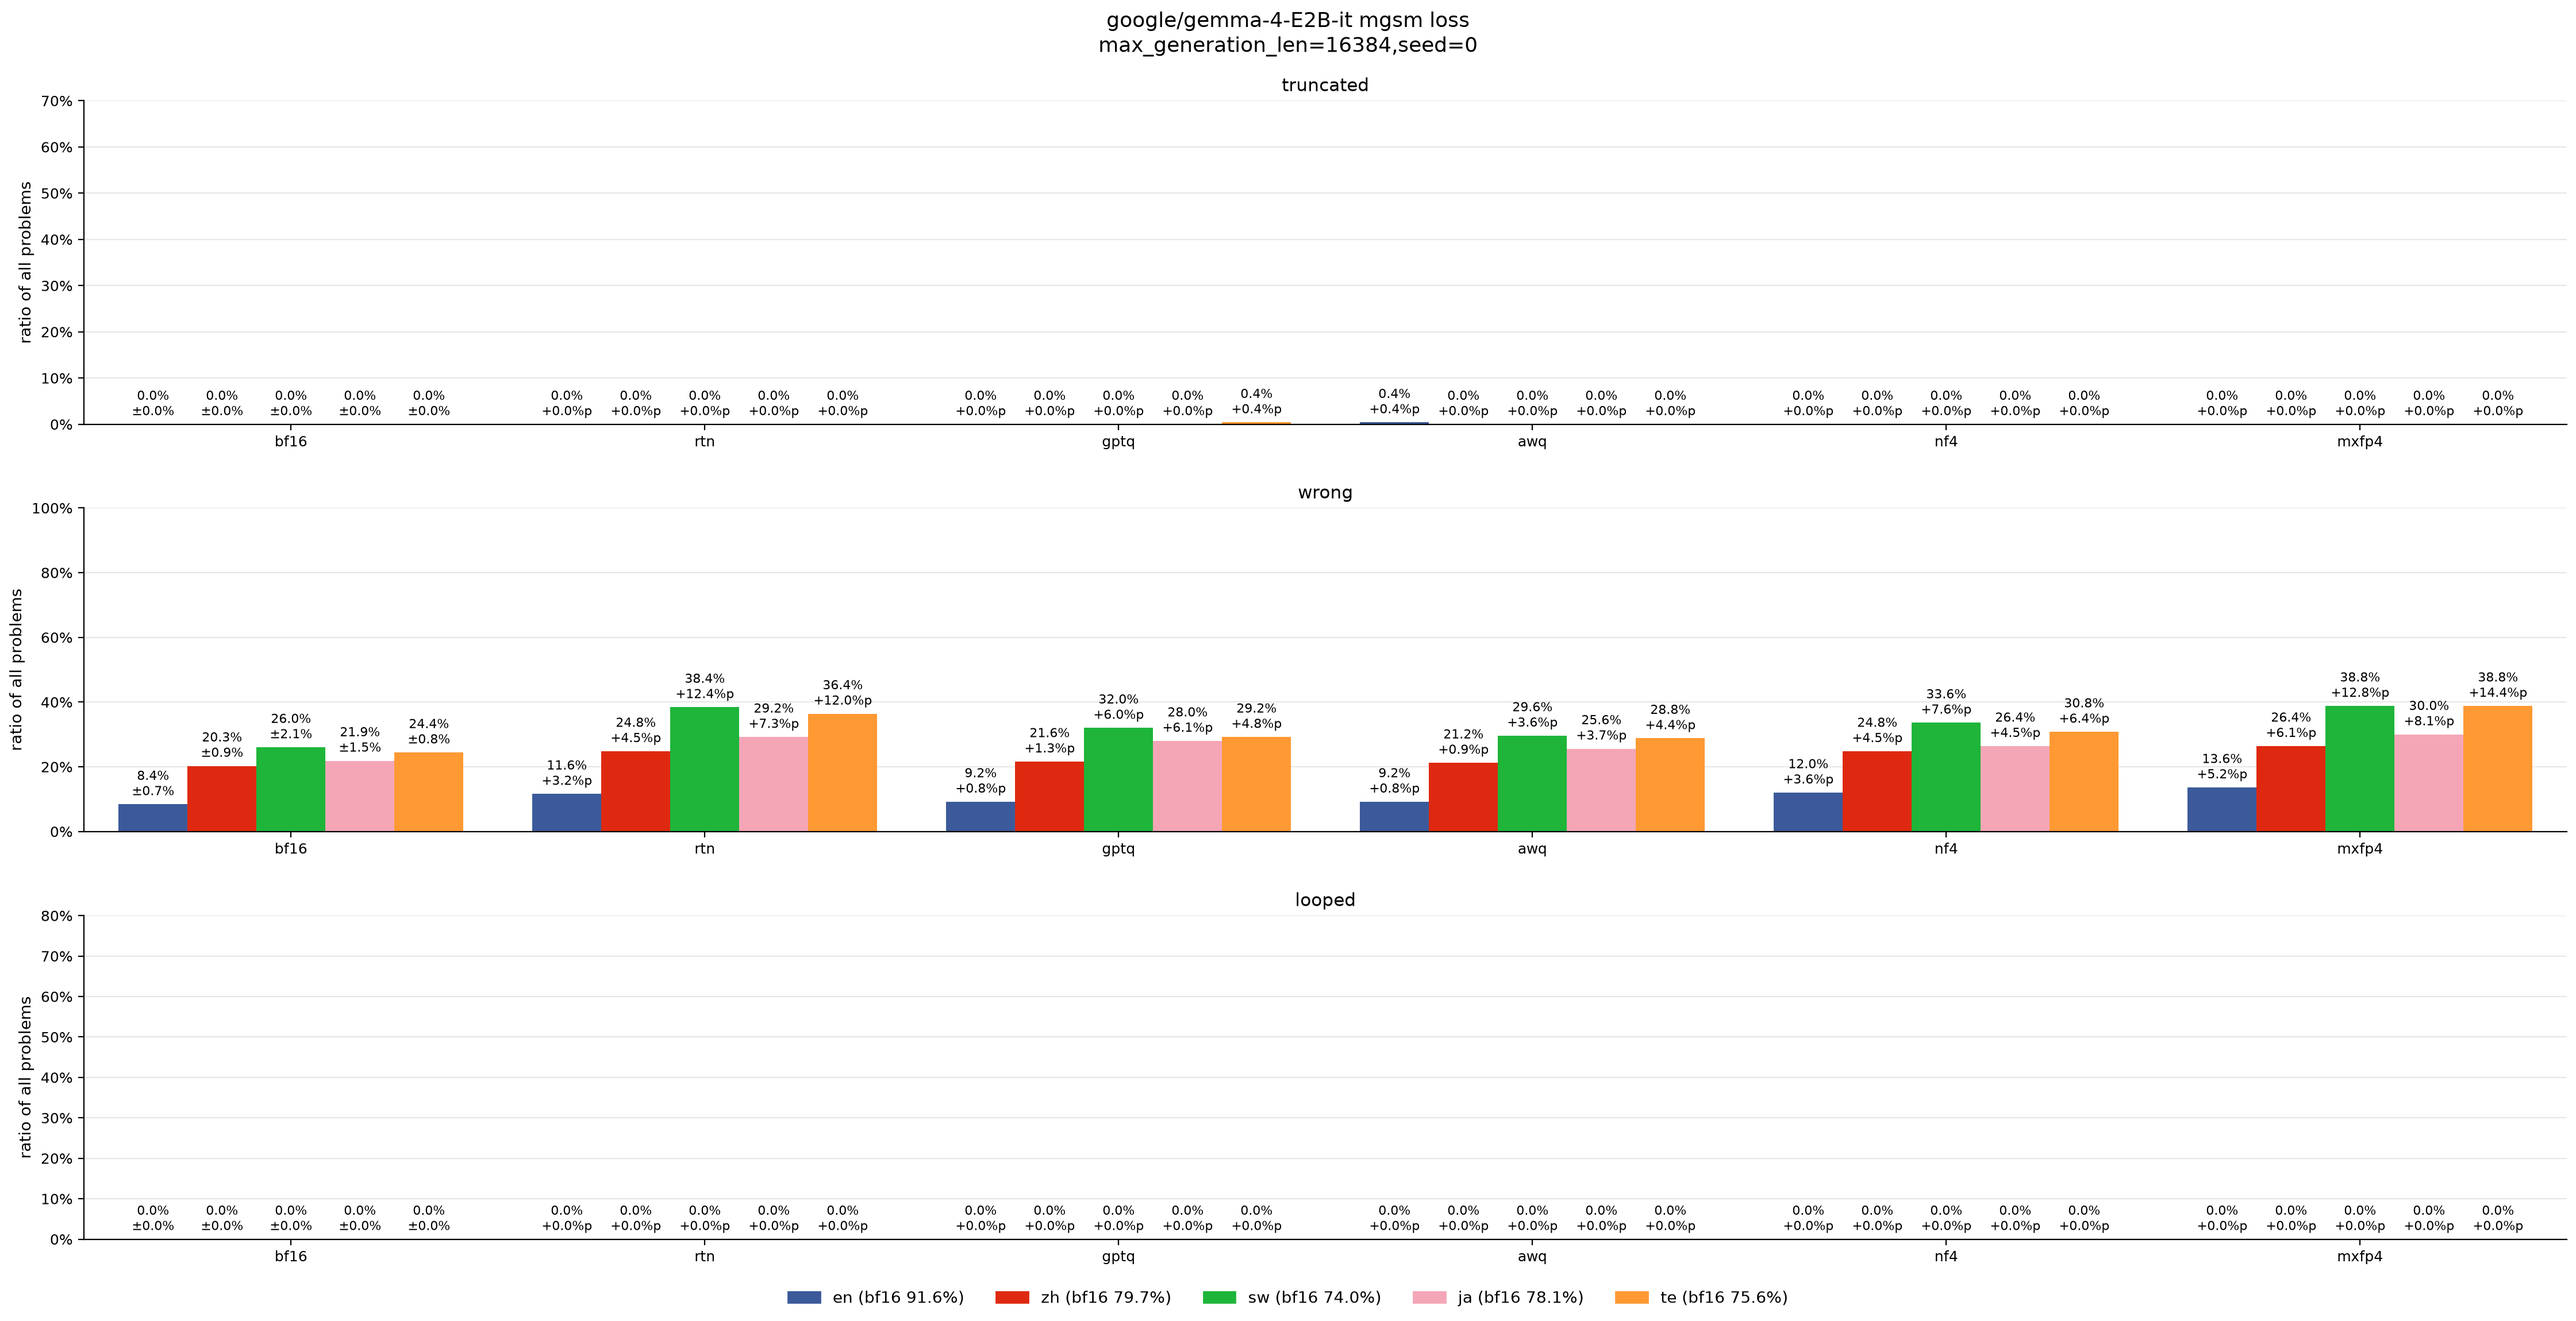
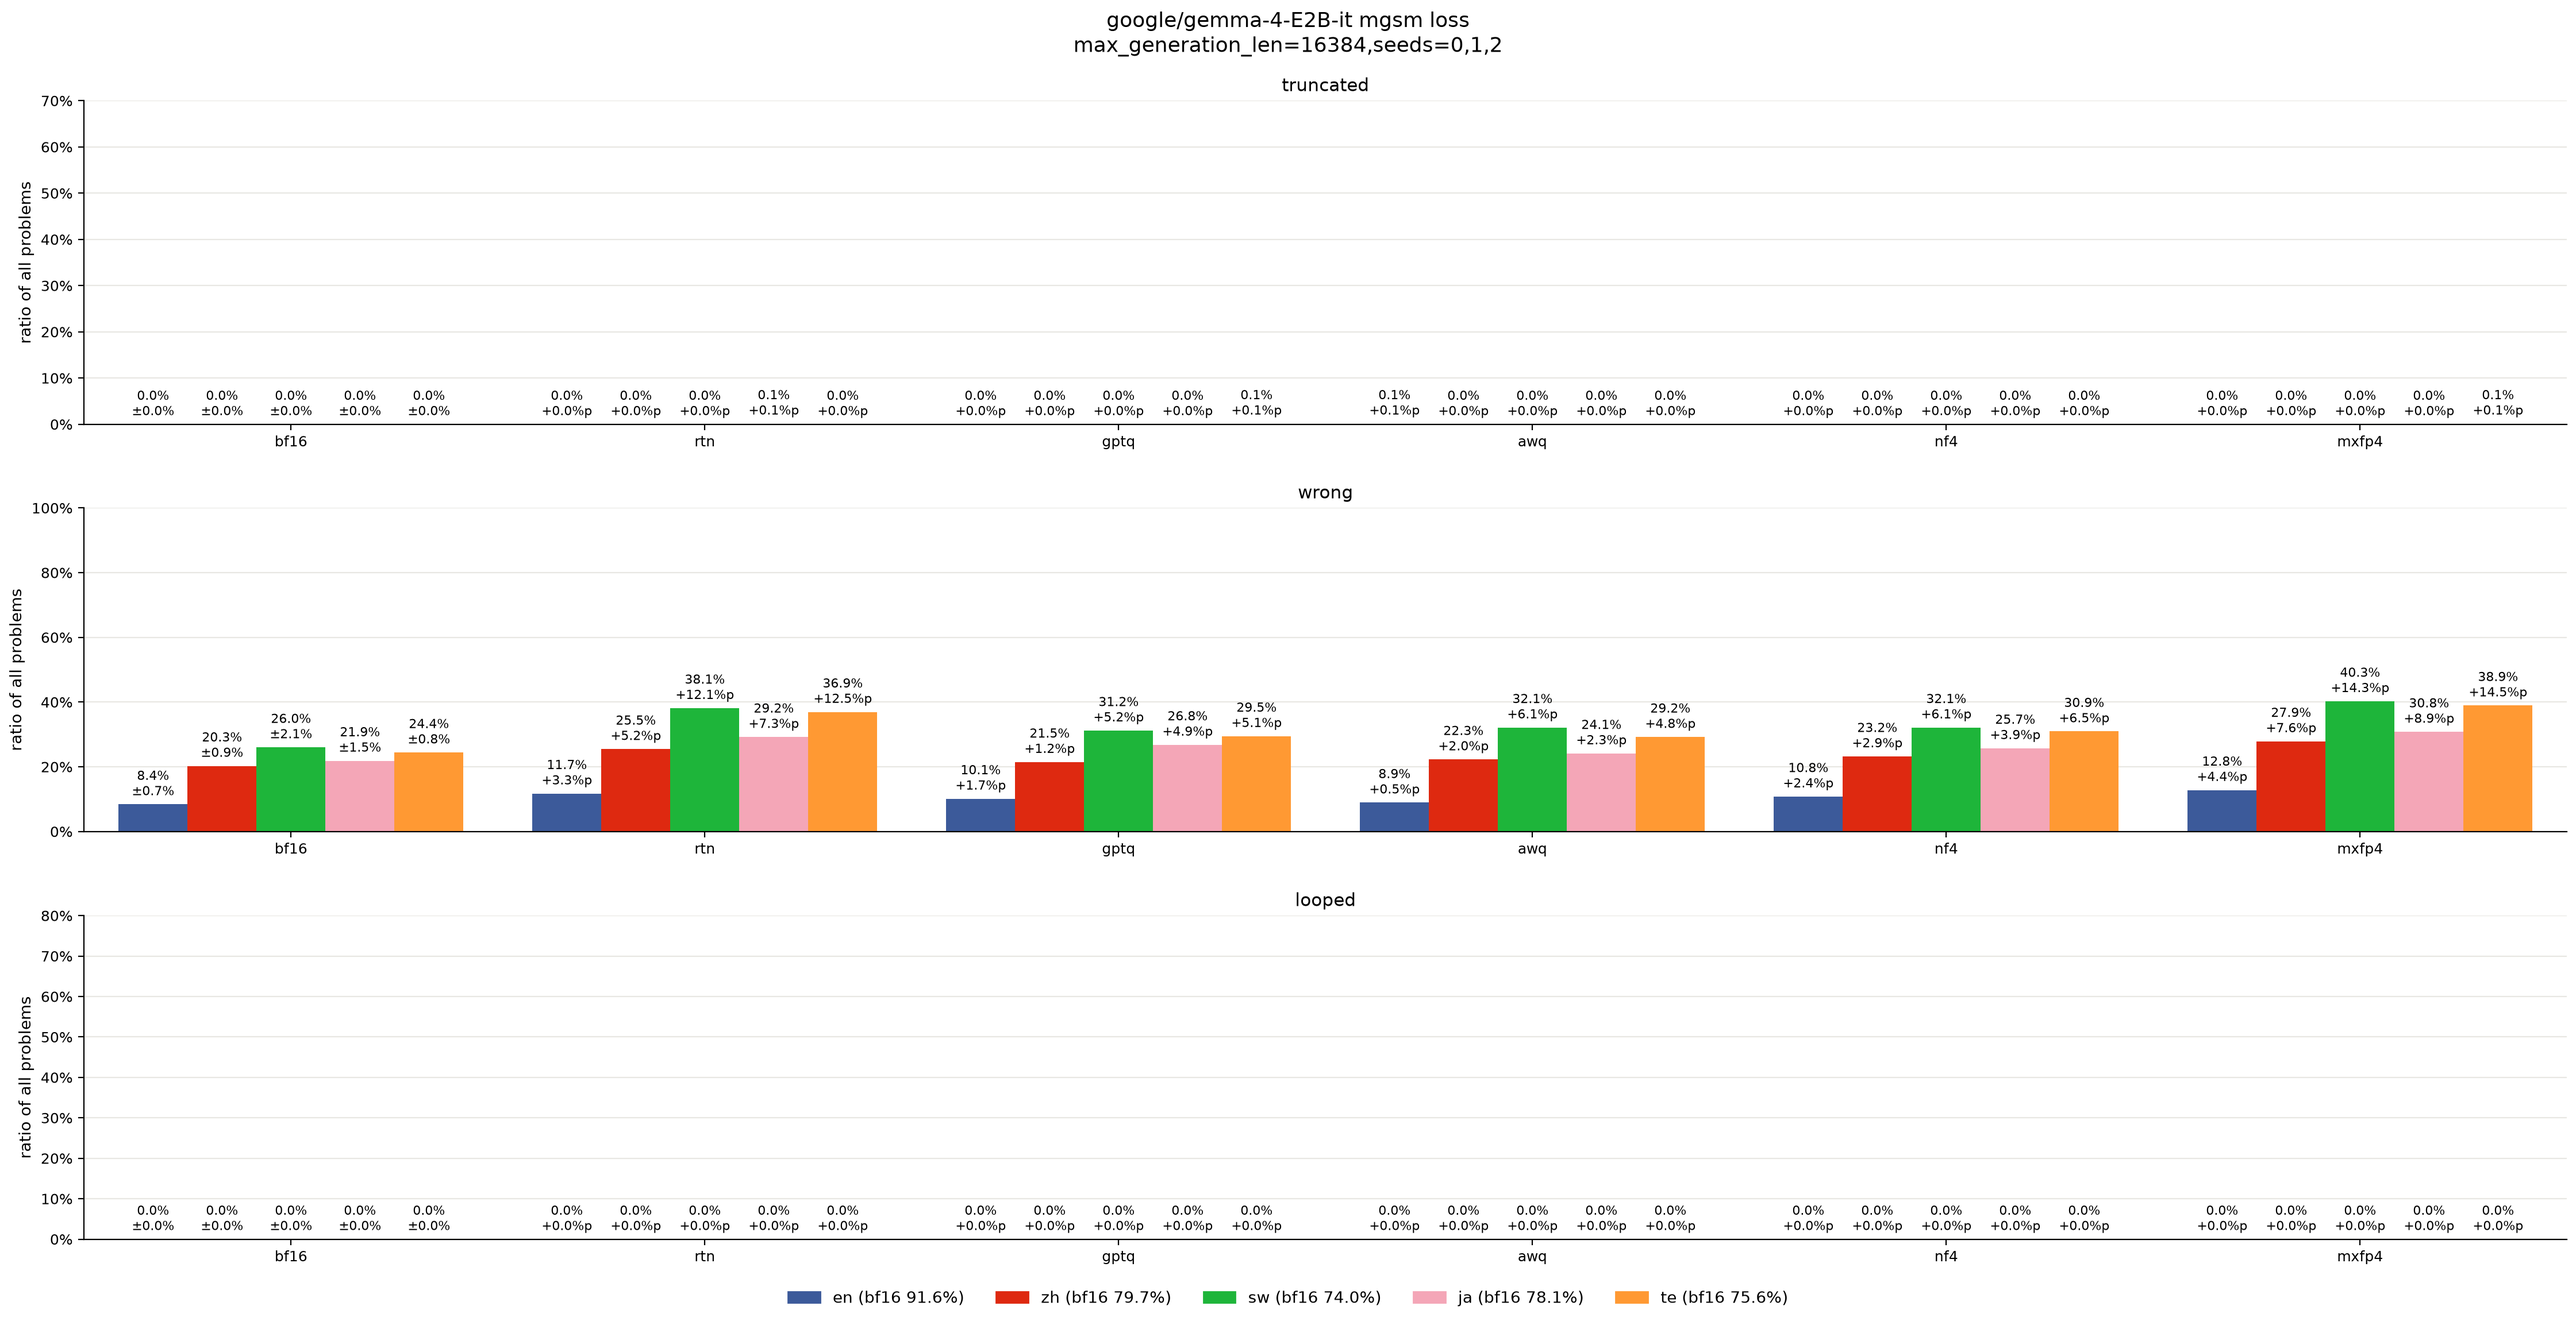
average seeds 0, 1 and 2 in mgsm loss plots and update results

diff --git a/plots/loss.py b/plots/loss.py
@@ -22,22 +22,24 @@ class Config:
     group_size: int = 128
     num_samples: int = 128
     max_generation_len: int = 32768
-    seed: int = 0
+    seeds: tuple[int, ...] = (0, 1, 2)
+    bf16_seeds: tuple[int, ...] = (0, 1, 2)
 
 
 def main() -> None:
     config = parse(Config)
-    file_name = f"max_generation_len={config.max_generation_len},seed={config.seed}"
     bf16_target = make_target_path("bf16", config.model_name, config.languages, config.num_bits, config.group_size, config.num_samples)
-    bf16_file_names = [f"max_generation_len={config.max_generation_len},seed={seed}" for seed in range(config.seed, config.seed + 3)]
+    bf16_file_names = [f"max_generation_len={config.max_generation_len},seed={seed}" for seed in config.bf16_seeds]
     bf16_results = [load_result(config.benchmark, bf16_target, bf16_file_name) for bf16_file_name in bf16_file_names if result_exists(config.benchmark, bf16_target, bf16_file_name)]
     languages = list(bf16_results[0])
 
+    file_names = [f"max_generation_len={config.max_generation_len},seed={seed}" for seed in config.seeds]
     results = {}
     for method in ["rtn", "gptq", "awq", "nf4", "mxfp4"]:
         target = make_target_path(method, config.model_name, config.languages, config.num_bits, config.group_size, config.num_samples)
-        if result_exists(config.benchmark, target, file_name):
-            results[method] = load_result(config.benchmark, target, file_name)
+        method_results = [load_result(config.benchmark, target, file_name) for file_name in file_names if result_exists(config.benchmark, target, file_name)]
+        if method_results:
+            results[method] = method_results
 
     panels = [
         (get_truncated_ratio, [], "truncated", 0.7),
@@ -47,7 +49,7 @@ def main() -> None:
     for get_ratio, groups, _, _ in panels:
         for language in languages:
             bf16_ratios = [get_ratio(bf16_result[language]) for bf16_result in bf16_results]
-            ratios = [get_ratio(result[language]) for result in results.values()]
+            ratios = [mean(get_ratio(result[language]) for result in method_results) for method_results in results.values()]
             groups.append(([mean(bf16_ratios), *ratios], LANGUAGE_COLORS[language], [format_bf16_ratio(bf16_ratios), *[format_ratio(ratio, mean(bf16_ratios)) for ratio in ratios]]))
 
     labels = ["bf16", *results]
@@ -63,7 +65,7 @@ def main() -> None:
         ax.set_axisbelow(True)
         ax.yaxis.set_major_formatter(PercentFormatter(1, decimals=0))
 
-    fig.suptitle(f"{config.model_name} {config.benchmark} loss\n{file_name}")
+    fig.suptitle(f"{config.model_name} {config.benchmark} loss\nmax_generation_len={config.max_generation_len},seeds={','.join(map(str, config.seeds))}")
     handles = [Patch(color=LANGUAGE_COLORS[language], label=f"{language} (bf16 {mean(bf16_result[language]['accuracy'] for bf16_result in bf16_results):.1%})") for language in languages]
     fig.legend(handles=handles, loc="outside lower center", ncol=len(handles))
     # panels share one column, so fit width by one panel

diff --git a/docs/results.md b/docs/results.md
@@ -33,9 +33,8 @@ all experiments use these settings unless noted
 #### generation
 - use vllm 0.30.0
 - use temperature 1.0 and top-p 0.95
-- use seed 0, 1 and 2 for bf16 on mgsm
-- use seed 0 and 1 for bf16 on mmlu-prox-lite
-- use seed 0 for quantized models
+- use seed 0, 1 and 2 on mgsm
+- use seed 0 and 1 for bf16 and seed 0 for quantized models on mmlu-prox-lite
 - qwen3.5-2b uses top-k 20, presence penalty 1.5 and max generation len 32768
 - gemma-4-e2b-it uses top-k 64, presence penalty 0 and max generation len 16384
 
@@ -60,22 +59,27 @@ all experiments use these settings unless noted
 - wrong means reasoning finished but answer is wrong
 - all panels show ratio of all problems
 - bar labels show ratio and change from bf16 mean
+- on mgsm, quantized bars show mean of seed 0, 1 and 2
 
 #### gemma summary
 - gemma loses less than qwen
 - gemma almost never truncates
-- with awq on mgsm, sw and en differ by only 2.4p, which could be noise
+- on mgsm, sw and te lose most with every method
+- with awq on mgsm, sw loses much more than en (-6.1p vs -0.7p)
 
 #### qwen summary
 - method decides how much truncation happens
 - most rtn and mxfp4 truncation comes from loops
 - bf16 is weak on sw and te on mgsm (43.1%, 16.1%)
 - with awq on mgsm, en and zh drop less than sw and ja
-- with awq on mgsm, ja loses as much as sw (-10.9p, -10.3p), even though bf16 does much better on ja (77.7%, 43.1%)
+- with awq on mgsm, ja loses almost as much as sw (-8.9p, -10.3p), even though bf16 does much better on ja (77.7%, 43.1%)
+- with every other method on mgsm, zh loses most (-14.4p to -41.3p)
+- zh also truncates most on mgsm with every method
 
 #### common summary
-- awq loses least on average (-2.8p to -7.2p)
+- awq loses least on average (-3.2p to -6.5p on mgsm)
 - rtn and mxfp4 lose most
+- with awq on mgsm, sw drops most
 - on mmlu-prox-lite, non english does not clearly lose more than en
 
 ## does calibration language matter?
@@ -88,12 +92,13 @@ all experiments use these settings unless noted
 - calibrate on en, sw, te and all (en, zh, sw, ja, te)
 - all has 128 chunks in total, about 26 per language
 - panels and bar labels are same as above
+- use seed 0 only, so small differences could be noise
 
 #### gemma summary
 - all calibration does not help (-3.0p vs -2.8p with en)
 
 #### qwen summary
-- all calibration helps (-4.7p vs -7.2p with en)
+- all calibration may help (-4.7p vs -7.2p with en)
 - sw and te calibration add truncation and loops on en and zh
 
 #### common summary

diff --git a/docs/todo.md b/docs/todo.md
@@ -1,6 +1,3 @@
 # todo
 
-- run seed 1 and 2 for quantized models
-- run bf16 seed 2 on mmlu-prox-lite
-- update `docs/results.md` after seed runs
 - write `docs/related_work.md`
